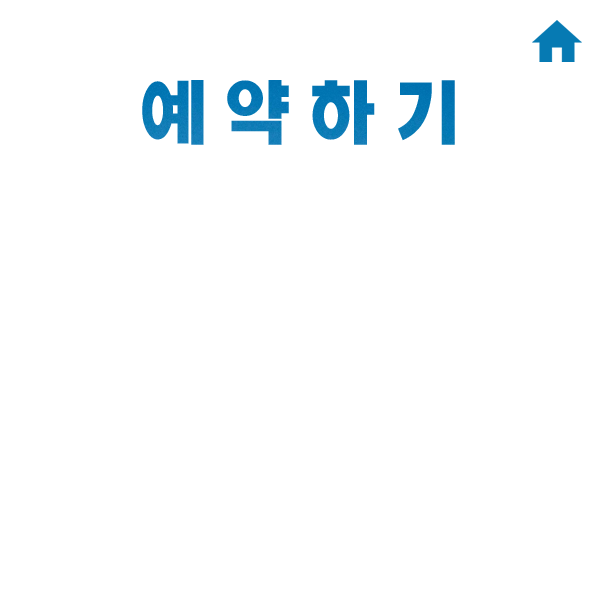
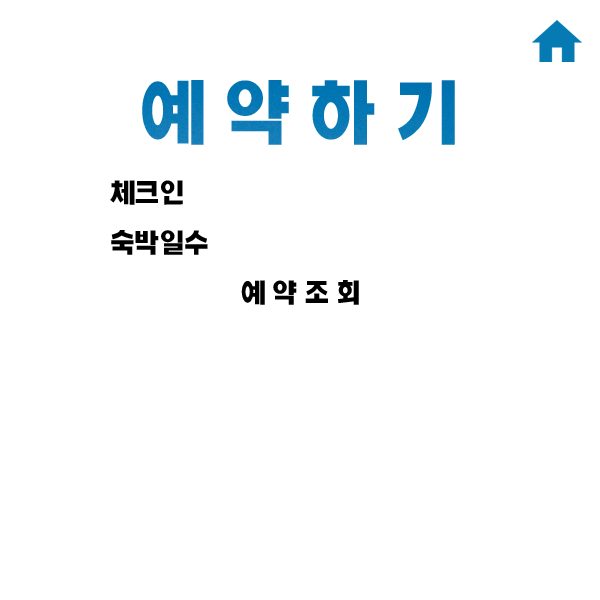
디자인 업데이트

Changed region(s): [[0.18, 0.3, 0.36, 0.45], [0.39, 0.45, 0.6, 0.51]]

diff --git a/reservation/src/reservation/view/JP_Cal.java b/reservation/src/reservation/view/JP_Cal.java
@@ -29,7 +29,7 @@ import reservation.model.vo.UserVO;
 
 public class JP_Cal extends JPanel {
 
-	JButton bToLogin, bTestSearch; 
+	JButton bToLogin, bSearch; 
 	JButton[] bSite = new JButton[5];
 	
 	JLabel lb_check_in, lb_numStay, lb_able_sen, lb_able_Num, lb_able_gae,lb_price;
@@ -67,7 +67,7 @@ public class JP_Cal extends JPanel {
 		
 		// Component 생성
 		bToLogin = new JButton(); 
-		bTestSearch = new JButton("예약조회");
+		bSearch = new JButton();
 		
 		for (int i = 0; i < bSite.length ; i++) {
 			bSite[i] = new JButton();
@@ -77,23 +77,20 @@ public class JP_Cal extends JPanel {
 			iDisEnabled[i] = new ImageIcon("src/reservation/imgs_button/JP_Cal_Disabled_" + (i+1) + ".png");
 		}
 		
- 		
-		/*
-		 * 임시 ****************************************
-		 */
 		imgBackground = new ImageIcon("src/reservation/imgs/JP_Cal.png");
 		
 		// Component 양식 설정
 		bToLogin.setFont(new Font("맑은 고딕", Font.PLAIN, 12));
 		bToLogin.setBounds(530, 15, 53, 53);
-			// JButton 투명하게
-			bToLogin.setContentAreaFilled(false);
-			bToLogin.setBorderPainted(false);
+		bToLogin.setContentAreaFilled(false);
+		bToLogin.setBorderPainted(false);
 		add(bToLogin);
 		
-		bTestSearch.setFont(new Font("맑은 고딕", Font.PLAIN, 12));
-		bTestSearch.setBounds(200, 270, 97, 40);
-		add(bTestSearch);
+		bSearch.setFont(new Font("맑은 고딕", Font.PLAIN, 12));
+		bSearch.setBounds(220, 270, 160, 45);
+		bSearch.setContentAreaFilled(false);
+		bSearch.setBorderPainted(false);
+		add(bSearch);
 		
 		/*
 		 * 사이트 선택 버튼: "예약조회" 클릭 시 예약 가능한 사이트만 활성화 >>> 추후 반복 처리 시도 예정
@@ -124,27 +121,16 @@ public class JP_Cal extends JPanel {
 			bSite[i].setDisabledIcon(resizeIcon(iDisEnabled[i], bSite[i].getWidth(), bSite[i].getHeight()));
 		}
 		
-		// 처음 화면에서만 보이는 라벨
-		lb_check_in = new JLabel("체크인");
-		lb_check_in.setFont(new Font("맑은 고딕", Font.PLAIN, 12));
-		lb_check_in.setBounds(100, 170, 211, 30);
-		add(lb_check_in);
-
-		lb_numStay = new JLabel("숙박일수");
-		lb_numStay.setFont(new Font("맑은 고딕", Font.PLAIN, 12));
-		lb_numStay.setBounds(100, 220, 211, 30);
-		add(lb_numStay);
-		
 		// "예약조회" 클릭 시 보이는 라벨
 		lb_able_sen = new JLabel("예약 가능한 사이트 수 ");
 		lb_able_sen.setFont(new Font("맑은 고딕", Font.PLAIN, 18));
-		lb_able_sen.setBounds(100, 350, 250, 30);
+		lb_able_sen.setBounds(120, 350, 250, 30);
 		add(lb_able_sen);
 		lb_able_sen.setVisible(false);
 		
-		lb_able_Num = new JLabel("");
+		lb_able_Num = new JLabel();
 		lb_able_Num.setFont(new Font("맑은 고딕", Font.BOLD, 30));
-		lb_able_Num.setBounds(300, 349, 200, 30);
+		lb_able_Num.setBounds(320, 349, 100, 30);
 		add(lb_able_Num);
 		lb_able_Num.setVisible(false);
 		
@@ -158,13 +144,13 @@ public class JP_Cal extends JPanel {
 		UtilDateModel model1 = new UtilDateModel();
         JDatePanelImpl datePanel1 = new JDatePanelImpl(model1);
         JDatePickerImpl datepicker1 = new JDatePickerImpl(datePanel1);
-        datepicker1.setBounds(200,170,200,30);
+        datepicker1.setBounds(220,180,200,30);
         add(datepicker1);
         
         // JComboBox 숙박일수 선택
         String [] numStay = {"1","2"};
         JComboBox cb_Stay = new JComboBox(numStay);
-		cb_Stay.setBounds(200, 220, 100, 25);
+		cb_Stay.setBounds(320, 230, 100, 25);
 		cb_Stay.setToolTipText("숙박일수를 선택해주세요");
 		add(cb_Stay);
 		
@@ -189,7 +175,7 @@ public class JP_Cal extends JPanel {
 			}
 		});
 		
-		bTestSearch.addActionListener(new ActionListener() { 
+		bSearch.addActionListener(new ActionListener() { 
 			public void actionPerformed(ActionEvent arg0) { 
 				
 				// 선택한 날짜가 오늘 이전이라면 예약조회 버튼 작동하지 않음 

diff --git a/reservation/src/reservation/view/JP_Register.java b/reservation/src/reservation/view/JP_Register.java
@@ -25,20 +25,19 @@ import reservation.others.HintTextField;
 
 public class JP_Register extends JPanel implements ActionListener {
 	
-	private JTextField tfID, tfTel, tfName, tfEmail, tfAddr;
-	private JButton bRegist, bToLogin; 
+	JTextField tfID, tfTel, tfName, tfEmail, tfAddr;
+	JButton bRegist, bToLogin; 
 	
-//	비밀번호 표시 필드 _201103 원우
-//	비번확인 텍스트필드 생성 (tfPwConfirm) _201105 원우
-	private JPasswordField tfPW, tfPwConfirm;
+	JPasswordField tfPW, tfPwConfirm;
 	
-//	이메일 드롭박스 _201105 원우
 	JComboBox emailBox;
 	
 	ImageIcon imgBackground;
 	
 	JLabel lblNewLabel_overlap;
 	
+	// 테스트
+	JLabel lbIdCheck;
 	
 	/*
 	 * 이름: JP_Login 기본생성자
@@ -127,18 +126,11 @@ public class JP_Register extends JPanel implements ActionListener {
 		lblNewLabel_overlap.setBounds(405, 187, 57, 15);
 		add(lblNewLabel_overlap);
 		
-//		이메일 드롭박스 _201105 원우
 		String[] mail = {"메일 선택", "@gmail.com", "@naver.com", "@hanmail.net", "@yahoo.co.kr"};
 		emailBox = new JComboBox(mail);
 		emailBox.setFont(new Font("맑은 고딕", Font.PLAIN, 12));
 		emailBox.setBounds(430, 382, 120, 25);
 		add(emailBox);
-		
-		
-		JLabel lblNewLabel_1_1_1_1_1 = new JLabel("주소");
-		lblNewLabel_1_1_1_1_1.setFont(new Font("맑은 고딕", Font.PLAIN, 12));
-		lblNewLabel_1_1_1_1_1.setBounds(105, 427, 57, 15);
-		add(lblNewLabel_1_1_1_1_1);
 		
 		setVisible(true);
 		
